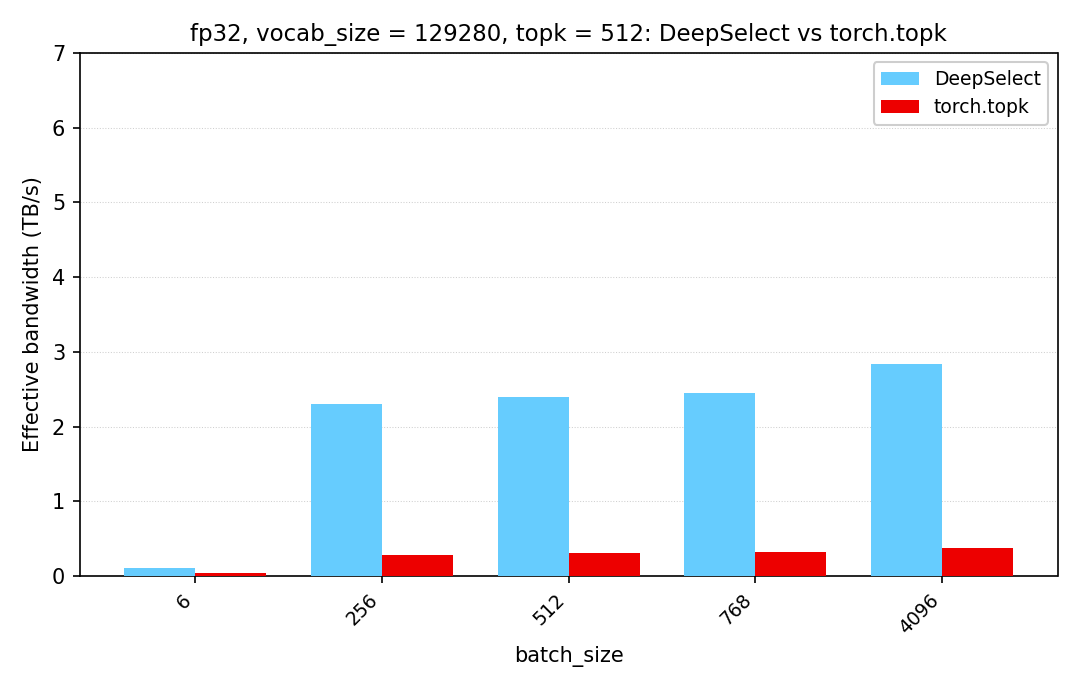
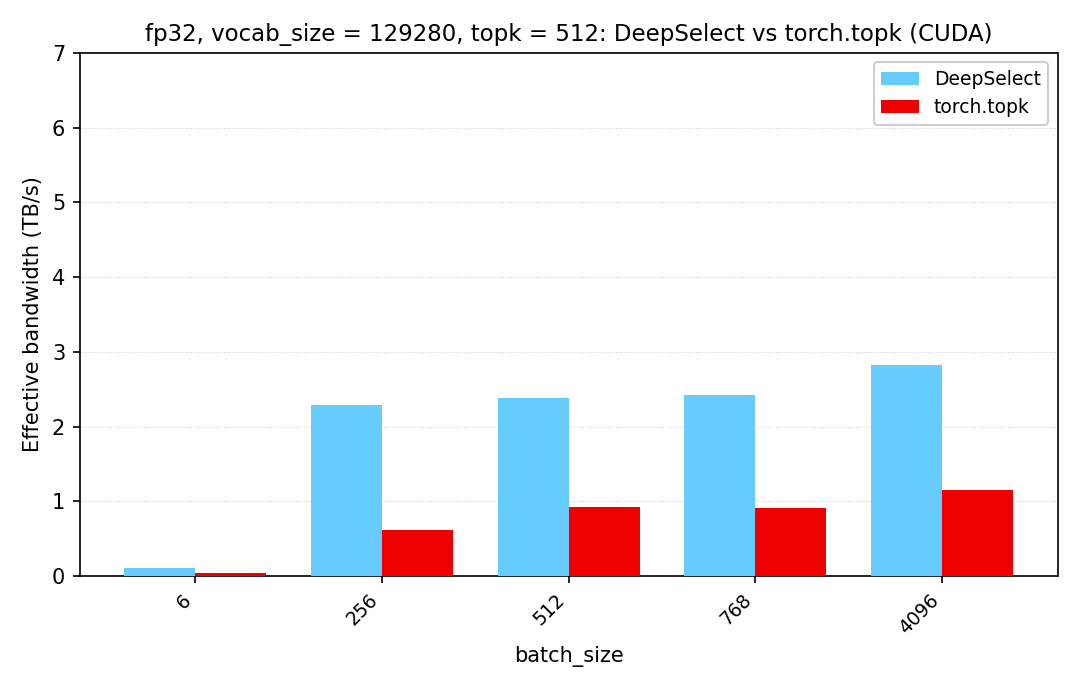
docs: take upstream's bfa4507 content, and the plots it re-rendered
Upstream's only commit since this fork's point is bfa4507 ("Add Kernels for
Huawei Ascend NPU"), and part of it is content this tree should carry whatever
platforms it builds for.  Two things were not, and are brought in here.

The two CUDA figures were the pre-bfa4507 bytes.  That commit did not just
rename `assets/perf_bf16.png` -> `assets/perf_bf16_cuda.png`, it re-rendered
them: the old blobs were deleted and new ones added under the new names
(59981 -> 62108 and 47435 -> 48693 bytes).  9c6fe6d renamed the files without
taking the content, so `perf_bf16_cuda.png` was the *old* plot wearing the *new*
name.  Both are now byte-identical to `upstream/main`'s blobs (`git hash-object`
== `git rev-parse upstream/main:<path>`), and the palette was re-sampled from
the new bytes to confirm the series colours did not move (`#66ccfe` / `#ed0000`).

Upstream's prose edits.  Carried: the intro's platform list, restated for this
fork ("NVIDIA CUDA and MetaX MACA platforms") with upstream's Chinese paragraph
alongside it; the `topk=512` optimization note; and the `sorted_index` /
`sorted` recommendation.  Not carried, each naming the Ascend backend this tree
does not have and a restriction MACA does not share: the `(Ascend)` Performance
section, the Ascend News entry, the "Ascend implementation supports
torch.bfloat16 only" note, the `only the FP32 variant ... supports this` and
`Ascend ... only supports torch.int32` usage comments, and
`assets/perf_bf16_ascend.png`.
[…]

diff --git a/scripts/plot_perf.py b/scripts/plot_perf.py
@@ -65,6 +65,10 @@ BF16_VOCABS = (16384, 65536, 131072, 262144, 524288, 1048576)
 BAR_WIDTH = 0.38
 # How much air the y-axis leaves above the tallest bar drawn.
 HEADROOM = 1.05
+# Upstream tags each figure with the platform it was measured on -- `(CUDA)`,
+# `(Ascend)`.  Ours carries the board too, since `perf_data/` holds one recording
+# per device and "MACA" alone does not say which part.
+PLATFORM = "MACA"
 
 
 def newest_snapshot(perf_root: Path) -> Path:
@@ -232,7 +236,8 @@ def plot_bf16(rows, output: Path) -> bool:
     axes[0][0].set_ylabel("Effective bandwidth (GB/s)", fontsize=9)
     axes[0][0].legend(frameon=True, fontsize=8, loc="upper left")
     title = "bf16, topk = 512: DeepSelect vs torch.topk"
-    fig.suptitle(f"{title} -- {chip}" if chip else title, fontsize=11)
+    fig.suptitle(f"{title} ({PLATFORM}, {chip})" if chip
+                 else f"{title} ({PLATFORM})", fontsize=11)
     fig.tight_layout(rect=(0, 0, 1, 0.94))
 
     output.parent.mkdir(parents=True, exist_ok=True)
@@ -267,7 +272,8 @@ def plot_fp32(rows, output: Path) -> bool:
     _grouped_bars(ax, list(range(len(batches))), maca_bars, torch_bars)
     title = "fp32, vocab_size = 129280, topk = 512: DeepSelect vs torch.topk"
     _finish_axes(ax, list(range(len(batches))), [str(b) for b in batches],
-                 f"{title} -- {chip}" if chip else title, "batch_size", top,
+                 f"{title} ({PLATFORM}, {chip})" if chip
+                 else f"{title} ({PLATFORM})", "batch_size", top,
                  ylabel="Effective bandwidth (GB/s)")
     ax.legend(frameon=True, fontsize=8, loc="upper left")
     fig.tight_layout()

diff --git a/README.md b/README.md
@@ -1,6 +1,8 @@
 # DeepSelect
 
-DeepSelect is a high performance implementation of the TopK kernel used in DeepSeek Sparse Attention (DSA) (which is used in DeepSeek V3.2, DeepSeek V4, and DeepSeek V4.1 models) and the sampler. It achieves 2 ~ 20x speedup compared to vanilla `torch.topk`.
+DeepSelect is a high performance implementation of the TopK kernel used in DeepSeek Sparse Attention (DSA) (which is used in DeepSeek V3.2, DeepSeek V4, and DeepSeek V4.1 models) and the sampler. It supports NVIDIA CUDA and MetaX MACA platforms, and achieves 2 ~ 20x speedup compared to vanilla `torch.topk`.
+
+DeepSelect 是为 DeepSeek 稀疏注意力（DeepSeek Sparse Attention, DSA）和采样器（Sampler）定制的高性能 TopK 算子，支持 NVIDIA CUDA 平台与沐曦（MetaX MACA）平台。与原生 `torch.topk` 相比，它可实现 2～20 倍的加速。
 
 ## News
 
@@ -177,10 +179,10 @@ This scenario covers:
 - Input dtype: `torch.bfloat16`
 - `batch_size`: $1 \sim +\infty$ (both large and small batch sizes are optimized)
 - `vocab_size`: $1 \sim +\infty$ (both large and small vocabularies are optimized)
-- `topk`: small (must be $\le 4096$; larger values are not supported)
+- `topk`: small (must be $\le 4096$; larger values are not supported), mainly optimized for `topk=512` (i.e., DeepSeek V4's `topk`)
 
 Recommendations:
-- Disable `sorted_index` unless the output has to be ordered by index or by value; enabling either one costs performance.
+- Disable `sorted_index` and `sorted` unless the output has to be ordered by index or by value, respectively; enabling either one costs performance.
 - Set `return_value=False` when the values are not needed. This skips the value output and is faster.
 
 ### Sampling Scenario
